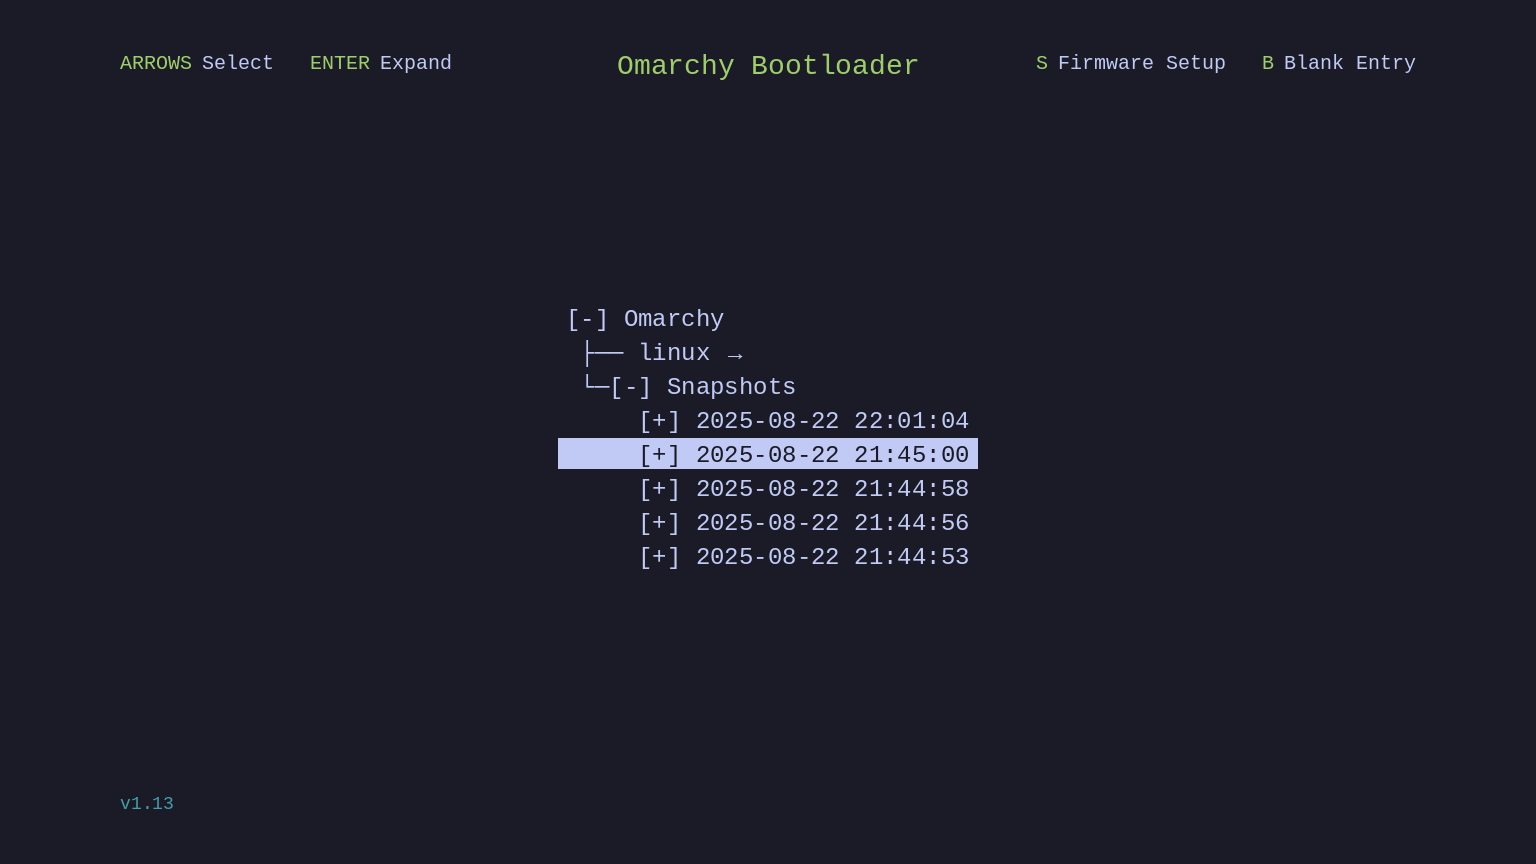
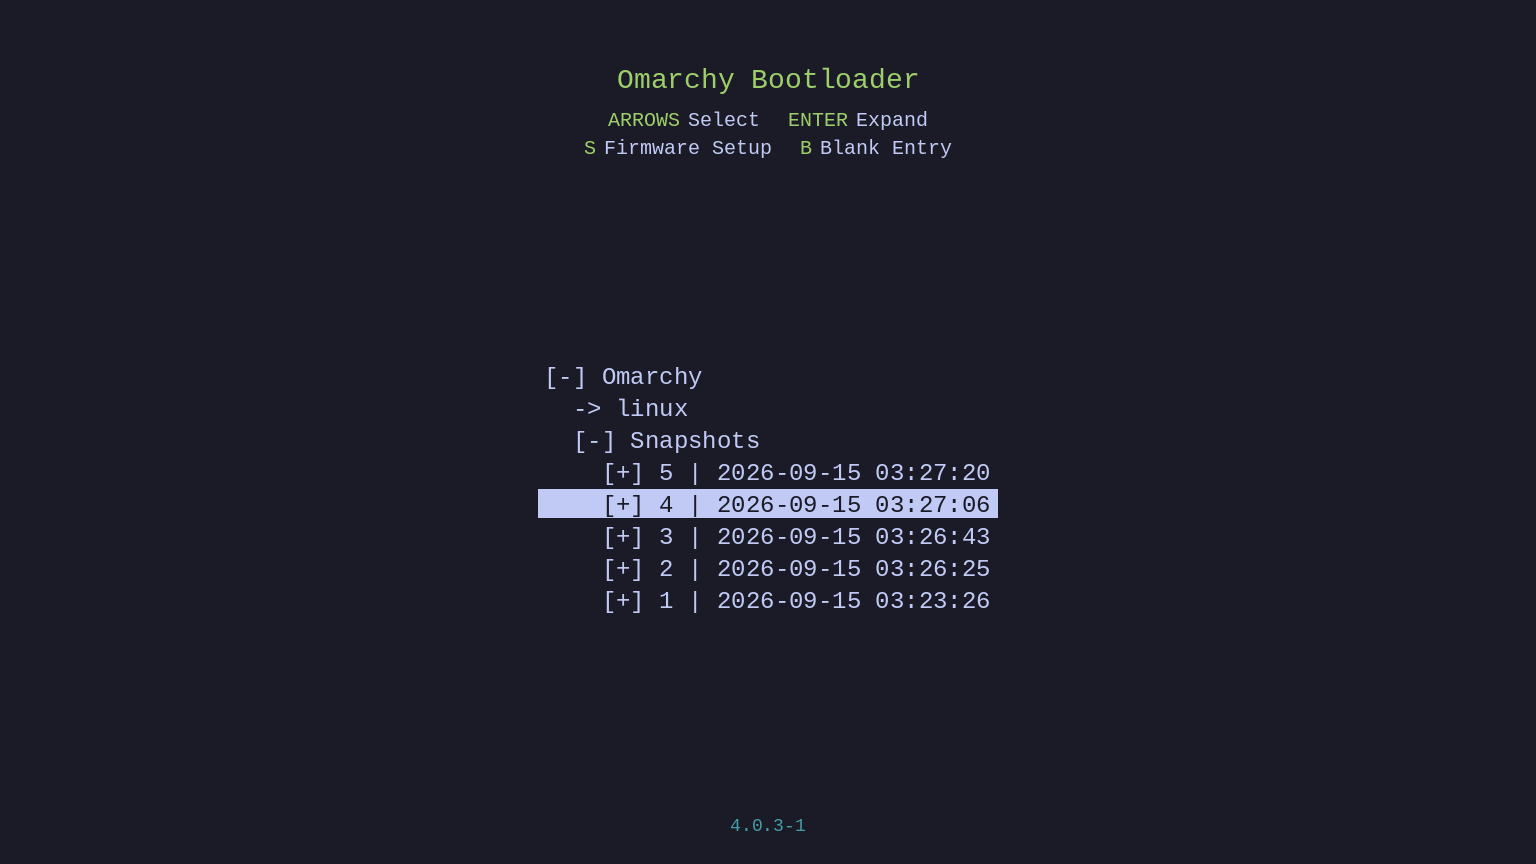
Track current Limine chrome; ship QEMU Tokyo Night reference for compare.
Mockups follow live Omarchy 4 / Limine 12 layout (centered help, N | timestamp
rows). README shows the real QEMU shot next to the generated Tokyo Night mockup.

diff --git a/lib/omaboot.py b/lib/omaboot.py
@@ -505,11 +505,25 @@ def branding_label(existing_conf: str | None = None) -> str:
 
 # omarchy-menu-images thumbnails every source to 1536×864 (16:9) with
 # smartcrop BEFORE the Style carousel shows it in a 768×475 tile. Matching
-# that size avoids a second crop; keep content inside ~8% side margins so
-# PreserveAspectCrop on the tile does not shave the subject.
+# that size avoids a second crop. Current Limine chrome is dead-centered, so
+# side gutters are mostly empty — carousel crop barely touches the subject.
 MOCKUP_SIZE = (1536, 864)
-SAFE_X = 120
-SAFE_Y = 48
+
+
+def omarchy_pkg_version() -> str:
+    """Best-effort Omarchy package version for the footer stamp (e.g. 4.0.3-1)."""
+    try:
+        out = subprocess.check_output(
+            ["pacman", "-Q", "omarchy"],
+            text=True,
+            stderr=subprocess.DEVNULL,
+        ).strip()
+        parts = out.split()
+        if len(parts) >= 2:
+            return parts[1]
+    except (OSError, subprocess.SubprocessError):
+        pass
+    return "4.0.3-1"
 
 
 def _text_size(draw: ImageDraw.ImageDraw, text: str, font: ImageFont.ImageFont) -> tuple[int, int]:
@@ -526,7 +540,7 @@ def _draw_help_pair(
     font: ImageFont.ImageFont,
     key_rgb: tuple[int, int, int],
     label_rgb: tuple[int, int, int],
-    gap: int = 10,
+    gap: int = 8,
 ) -> int:
     """Draw KEY + label; return width consumed."""
     draw.text((x, y), key, font=font, fill=key_rgb)
@@ -537,23 +551,48 @@ def _draw_help_pair(
     return kw + gap + lw
 
 
+def _center_help_row(
+    draw: ImageDraw.ImageDraw,
+    y: int,
+    pairs: list[tuple[str, str]],
+    font: ImageFont.ImageFont,
+    key_rgb: tuple[int, int, int],
+    label_rgb: tuple[int, int, int],
+    canvas_w: int,
+    pair_gap: int = 28,
+) -> None:
+    widths = []
+    for key, label in pairs:
+        kw, _ = _text_size(draw, key, font)
+        lw, _ = _text_size(draw, label, font)
+        widths.append(kw + 8 + lw)
+    total = sum(widths) + pair_gap * (len(pairs) - 1)
+    x = (canvas_w - total) // 2
+    for index, (key, label) in enumerate(pairs):
+        used = _draw_help_pair(draw, x, y, key, label, font, key_rgb, label_rgb)
+        x += used + pair_gap
+
+
 def render_mockup(
     palette: dict[str, Any],
     dest: Path,
     size: tuple[int, int] = MOCKUP_SIZE,
     branding: str = "Omarchy Bootloader",
+    version: str | None = None,
 ) -> Path:
-    """Limine-like boot chrome from palette (Manual / System Snapshots layout).
+    """Limine-like boot chrome from palette (current Omarchy 4 / Limine 12 layout).
 
-    Flat terminal UI: corner help keys, centered branding, ASCII snapshot tree,
-    inverse selection. Not a framebuffer capture — Limine has no headless
-    renderer. All chrome stays inside SAFE_X / SAFE_Y for the Style carousel.
+    Dead-centered: branding, help under the title, snapshot tree with
+    ``N | timestamp`` rows, inverse selection, version footer. Not a framebuffer
+    capture — Limine has no headless renderer. Layout tracked from a QEMU
+    Tokyo Night capture of current Omarchy Limine (older Manual shot was 2.x/3.x).
     """
     w, h = size
     bg = palette["background"]
     brand = palette["brand"]
     fg = palette["bright_foreground"]
     version_ink = palette.get("cyan", palette["accent"])
+    ver = version or omarchy_pkg_version()
 
     bg_rgb = hex_to_rgb(bg)
     brand_rgb = hex_to_rgb(brand)
@@ -571,69 +610,58 @@ def render_mockup(
     font_menu = try_font(24)
     font_ver = try_font(18)
 
-    left = SAFE_X
-    right = w - SAFE_X
-    top = SAFE_Y
+    # --- Header cluster (centered): branding, then two help rows ---
+    brand_w, brand_h = _text_size(draw, branding, font_brand)
+    header_top = 64
+    draw.text(((w - brand_w) // 2, header_top), branding, font=font_brand, fill=brand_rgb)
 
-    # --- Top help / branding row (same band as real Limine) ---
-    help_y = top + 4
-    left_w = _draw_help_pair(draw, left, help_y, "ARROWS", "Select", font_help, brand_rgb, fg_rgb)
-    _draw_help_pair(
+    help1_y = header_top + brand_h + 18
+    _center_help_row(
         draw,
-        left + left_w + 36,
-        help_y,
-        "ENTER",
-        "Expand",
+        help1_y,
+        [("ARROWS", "Select"), ("ENTER", "Expand")],
         font_help,
         brand_rgb,
         fg_rgb,
+        w,
+    )
+    help2_y = help1_y + 28
+    _center_help_row(
+        draw,
+        help2_y,
+        [("S", "Firmware Setup"), ("B", "Blank Entry")],
+        font_help,
+        brand_rgb,
+        fg_rgb,
+        w,
     )
 
-    brand_w, brand_h = _text_size(draw, branding, font_brand)
-    brand_x = (w - brand_w) // 2
-    # Keep branding clear of side help if the title is long.
-    brand_x = max(left + 280, min(brand_x, right - brand_w - 280))
-    draw.text((brand_x, help_y - 2), branding, font=font_brand, fill=brand_rgb)
-
-    right_pairs = [("S", "Firmware Setup"), ("B", "Blank Entry")]
-    cursor = right
-    for key, label in reversed(right_pairs):
-        kw, _ = _text_size(draw, key, font_help)
-        lw, _ = _text_size(draw, label, font_help)
-        pw = kw + 10 + lw
-        cursor -= pw
-        _draw_help_pair(draw, cursor, help_y, key, label, font_help, brand_rgb, fg_rgb)
-        cursor -= 36
-
-    # --- Centered snapshot tree (Manual screenshot composition) ---
+    # --- Centered tree (current Limine + limine-snapper-sync naming) ---
     lines: list[tuple[str, bool]] = [
         ("[-] Omarchy", False),
-        (" ├── linux", False),
-        (" └─[-] Snapshots", False),
-        ("     [+] 2025-08-22 22:01:04", False),
-        ("     [+] 2025-08-22 21:45:00", True),
-        ("     [+] 2025-08-22 21:44:58", False),
-        ("     [+] 2025-08-22 21:44:56", False),
-        ("     [+] 2025-08-22 21:44:53", False),
+        ("  -> linux", False),
+        ("  [-] Snapshots", False),
+        ("    [+] 5 | 2026-09-15 03:27:20", False),
+        ("    [+] 4 | 2026-09-15 03:27:06", True),
+        ("    [+] 3 | 2026-09-15 03:26:43", False),
+        ("    [+] 2 | 2026-09-15 03:26:25", False),
+        ("    [+] 1 | 2026-09-15 03:23:26", False),
     ]
-    # Measure widest line for horizontal centering inside the safe zone.
     line_widths = [_text_size(draw, text, font_menu)[0] for text, _ in lines]
     tree_w = max(line_widths)
-    tree_w = min(tree_w, right - left)
     tree_x = (w - tree_w) // 2
 
-    line_h = 34
+    line_h = 32
     tree_h = line_h * len(lines)
-    # Vertically center the tree under the help band; keep clear of version.
-    content_top = top + 56
-    content_bottom = h - SAFE_Y - 36
+    content_top = help2_y + 48
+    content_bottom = h - 64
     tree_y = content_top + max(0, (content_bottom - content_top - tree_h) // 2)
 
     for index, (text, selected) in enumerate(lines):
         y = tree_y + index * line_h
         tw, th = _text_size(draw, text, font_menu)
         if selected:
-            pad_x, pad_y = 8, 4
+            pad_x, pad_y = 6, 3
             box = (
                 tree_x - pad_x,
                 y - pad_y,
@@ -645,15 +673,9 @@ def render_mockup(
         else:
             draw.text((tree_x, y), text, font=font_menu, fill=fg_rgb)
 
-    # Boot tip arrow on the linux row (real Limine shows a marker).
-    linux_y = tree_y + line_h
-    tip = " →"
-    tip_x = tree_x + _text_size(draw, " ├── linux", font_menu)[0] + 4
-    if tip_x + _text_size(draw, tip, font_menu)[0] < right:
-        draw.text((tip_x, linux_y), tip, font=font_menu, fill=fg_rgb)
-
-    # Version stamp — bottom-left inside safe margins (carousel keeps it).
-    draw.text((left, h - SAFE_Y - 22), "v1.13", font=font_ver, fill=version_rgb)
+    # Version stamp — bottom-center (Omarchy package version on current Limine).
+    ver_w, _ = _text_size(draw, ver, font_ver)
+    draw.text(((w - ver_w) // 2, h - 48), ver, font=font_ver, fill=version_rgb)
 
     dest.parent.mkdir(parents=True, exist_ok=True)
     img.save(dest, format="PNG", optimize=True)

diff --git a/README.md b/README.md
@@ -28,8 +28,8 @@ making *another* theme is more worth it. Longer origin / stop-line:
 |------|----------------------|
 | Zero extra assets | No per-theme Limine art. Colours come from `colors.toml` alone. |
 | Extreme compatibility | Stock + user + foreign themes all appear in the picker automatically. |
-| True Theme Vibe | Mockups track real Limine chrome + your theme’s hex — **much closer**, if not identical, to what those colours look like on bare metal. Still **not** a framebuffer capture. |
-| Carousel-safe | Mockups are 1536×864 (menu-images thumbnail size) with ~8% side / ~48px vertical safe margins so the 768×475 tile crop does not shave the subject. |
+| True Theme Vibe | Mockups track **current** Limine chrome + your theme’s hex — **much closer**, if not identical, to what those colours look like on bare metal. Still **not** a framebuffer capture. |
+| Carousel-safe | Mockups are 1536×864 (menu-images thumbnail size). Current Limine is dead-centered, so the 768×475 tile crop mostly shaves empty sides. |
 | Slow pickers are OK | Warming every theme PNG takes a moment; that is the cost of generating previews instead of bundling assets. |
 
 We are **not** putting WYSIWYG screenshots in themes. Themes stay palette-only;
@@ -52,8 +52,9 @@ OmaCursor / OmaVT.
   Theme / Background.
 - **Live theme discovery** — every Omarchy theme with a `colors.toml` under
   `~/.config/omarchy/themes` or `$OMARCHY_PATH/themes`.
-- **Mockups** — Limine-like chrome (corner help keys, centered branding,
-  snapshot tree, inverse selection) coloured from that theme’s palette.
+- **Mockups** — current Limine chrome (centered branding + help, snapshot tree
+  with `N | timestamp`, inverse selection, version footer) coloured from that
+  theme’s palette.
 - **Safe patch** — one `### omaboot:start` … `### omaboot:end` block in
   `/boot/limine.conf`. Appended once if missing; replaced as a whole when you
   change themes. Boot entries, timeout, branding *text*, and any custom cmdline
@@ -64,27 +65,36 @@ OmaCursor / OmaVT.
 
 Limine has no headless renderer, and we will not ask theme authors to ship boot
 screenshots. Instead the drawer in `lib/omaboot.py` paints a **single** Limine
-layout once, then recolours it from each theme’s `colors.toml`.
+layout once, then recolours it from each theme’s `colors.toml`. At this point
+the Tokyo Night mockup is close enough that asking for a framebuffer feels like
+a joke — still not pixel-identical UEFI output, but the *vibe* is there.
 
-**How that layout was locked in:** Omarchy’s stock Limine colours *are* Tokyo
-Night. The [System snapshots](https://omarchy.org/manual/system-snapshots/)
-page of the [Official Omarchy Manual](https://omarchy.org/manual/) shows a
-clean Limine boot screen in that palette (help keys, centered branding, snapshot
-tree, inverse selection, version stamp). That shot was the layout reference —
-not something we redistribute, and not something themes carry. Match the chrome
-to that Tokyo Night example, then every other installed theme inherits the same
-silhouette with *its* hex. One clear colour example → the rest fall into place.
+**How it was done**
 
-Stock Limine vibe (Tokyo Night mockup — compare to the Manual boot screenshot):
+1. Grab a clean **current** Omarchy Limine screen in QEMU (no capture card) on
+   stock Tokyo Night — five joke update checks so Snapshots had rows, second
+   entry highlighted like the Manual used to.
+2. Trace that chrome in Pillow: centered branding, help under the title,
+   `-> linux` / Snapshots tree, `[+] N | timestamp` rows, inverse selection,
+   package version footer. Dead-centered so the Style carousel crop barely
+   matters.
+3. Recolour the same silhouette from every installed theme’s `colors.toml`.
+   Themes stay palette-only; the plugin owns the art.
 
-![OmaBoot Tokyo Night mockup — stock Limine layout + palette](preview-tokyo-night.png)
+The [System snapshots](https://omarchy.org/manual/system-snapshots/) page of the
+[Official Omarchy Manual](https://omarchy.org/manual/) still shows a Tokyo Night
+boot screen, but that shot is **dated** (2.x / early 3.x corner-help layout). We
+matched it first; this release tracks live Limine 12 / Omarchy 4 chrome instead.
 
-Hero above is the same chrome on **Hackerman**, so the picker story is obvious:
-same Limine, different theme colours. Not every Style plugin will land this
-close; this is the start of that bar.
+**Compare — real QEMU capture vs generated mockup (same theme):**
 
-Carousel crop stays honest: content is centered inside safe margins so
-`omarchy-menu-images` does not shave the subject.
+| Real Limine (QEMU, Tokyo Night) | OmaBoot mockup (Tokyo Night) |
+| --- | --- |
+| ![Real Omarchy Limine on Tokyo Night — QEMU reference](reference-limine-tokyo-night.png) | ![OmaBoot Tokyo Night mockup — same layout, drawn from colors.toml](preview-tokyo-night.png) |
+
+Hero at the top is the same chrome on **Hackerman**, so the picker story is
+obvious: same Limine, different theme colours. Not every Style plugin will land
+this close; this is the start of that bar.
 
 ## Install
 
@@ -154,10 +164,12 @@ bash ~/.config/omarchy/plugins/io.github.alxwolfenstein97.omaboot/check.sh
 
 ## Credits
 
-- **Layout reference:** Limine boot screenshot on
-  [System snapshots](https://omarchy.org/manual/system-snapshots/) in the
-  [Official Omarchy Manual](https://omarchy.org/manual/) (Tokyo Night / stock
-  Omarchy Limine). Used as a layout + vibe target only — not redistributed.
+- **Layout reference:** [`reference-limine-tokyo-night.png`](reference-limine-tokyo-night.png)
+  — QEMU capture of current Omarchy Limine on stock Tokyo Night (centered chrome,
+  snapshot `N | timestamp` rows, `4.0.3-1` footer). Compare to
+  [`preview-tokyo-night.png`](preview-tokyo-night.png). The
+  [System snapshots](https://omarchy.org/manual/system-snapshots/) Manual shot
+  was the earlier (2.x / early 3.x) vibe target only.
 - Hero mockup: official **Hackerman** theme (the loudest stock neon Omarchy
   ships). Compare mockup: stock **Tokyo Night**.
 - Sibling plugins: [OmaOBS](https://github.com/AlxWolfenstein97/omaobs),
